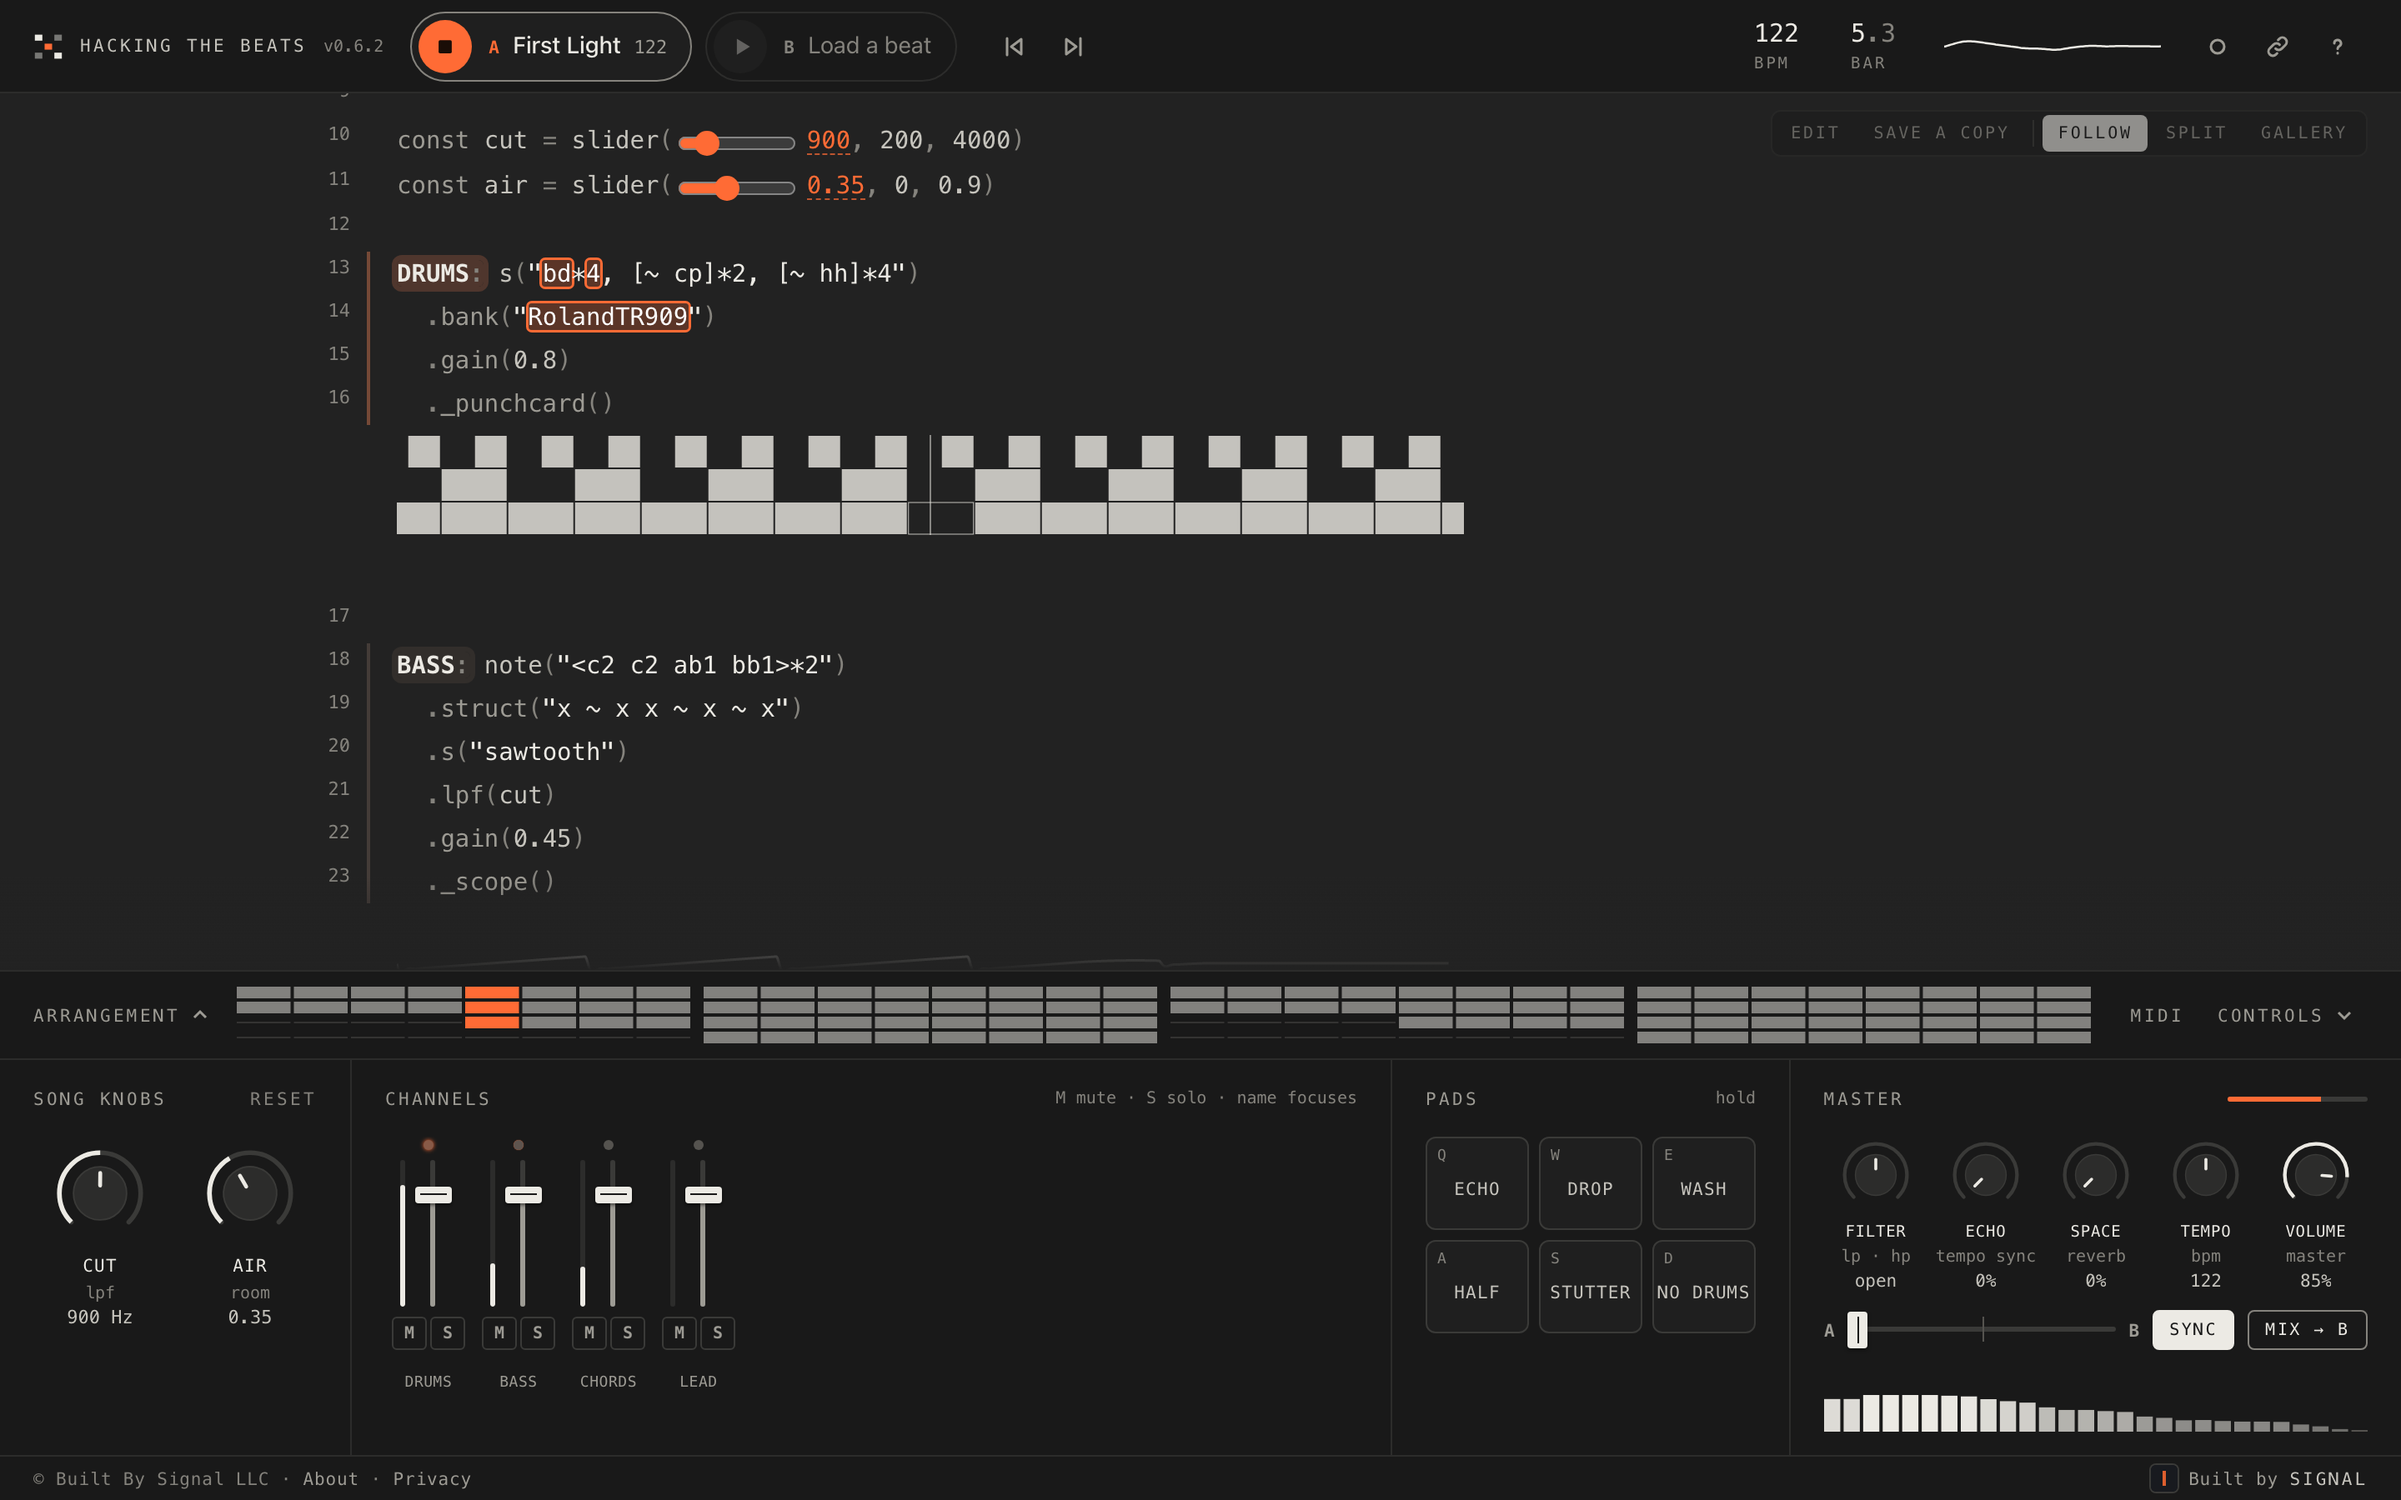
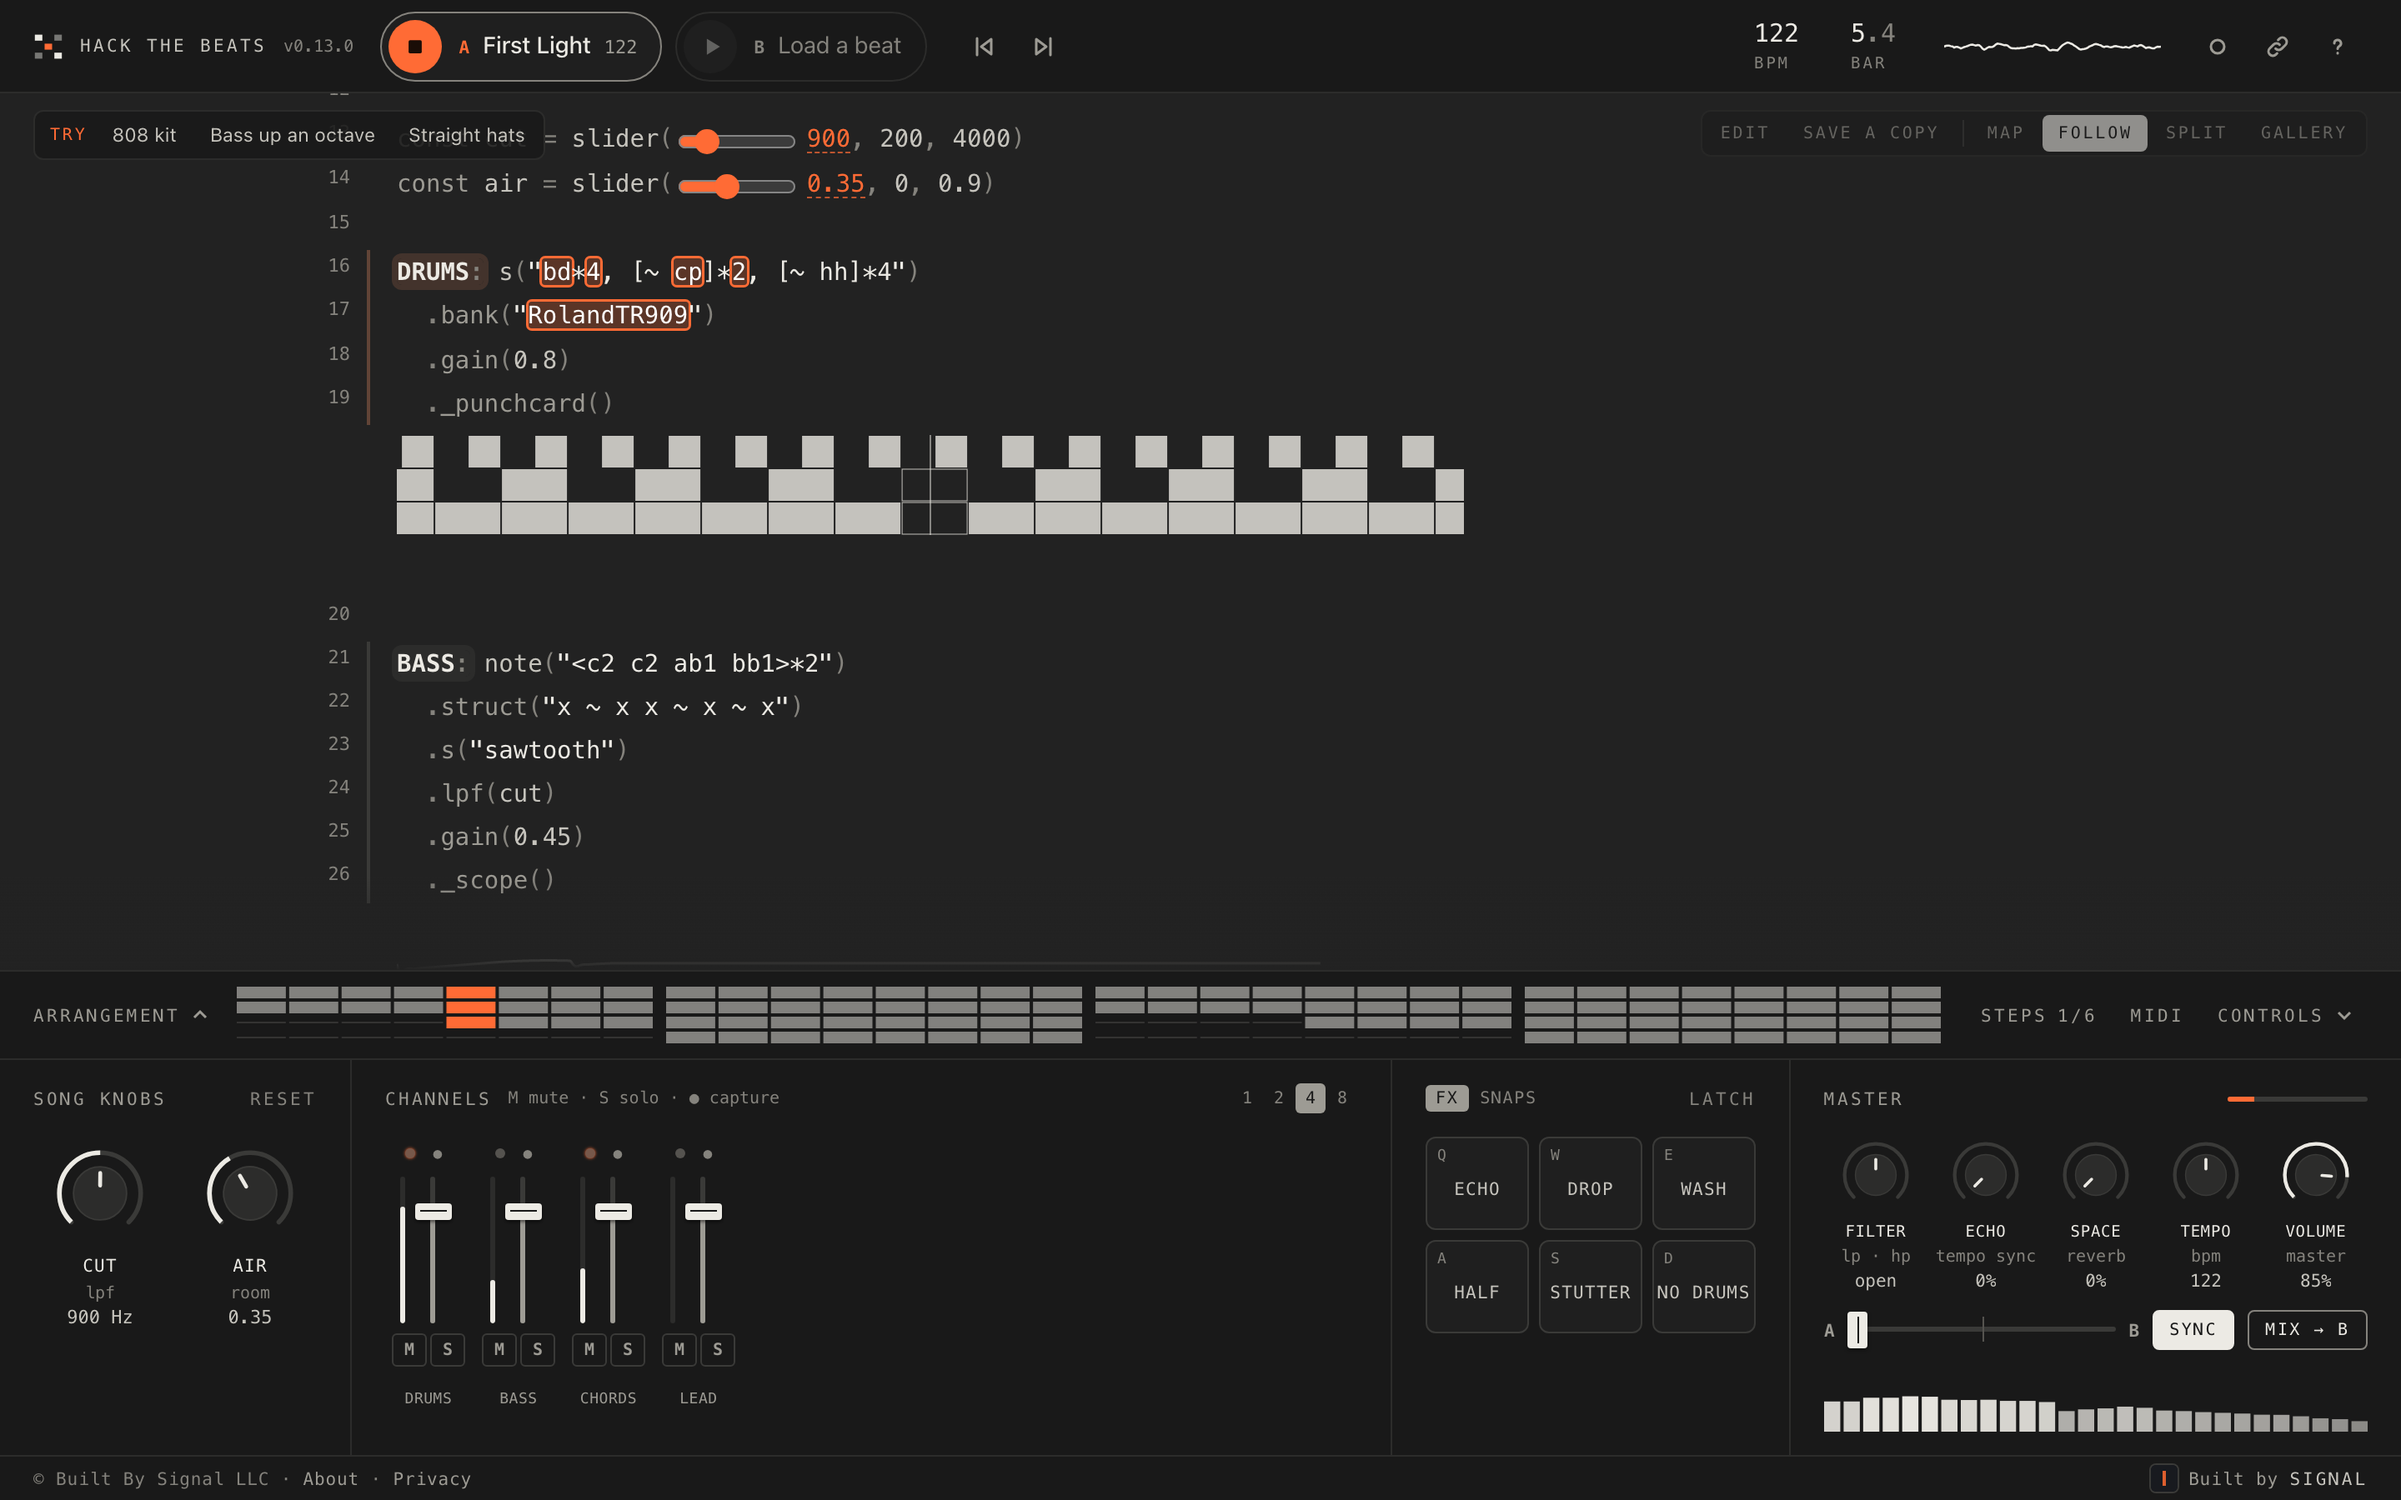
Hack The Beats 0.13.1: the name reads Hack The Beats
Every visible "Hacking the Beats" now reads "Hack The Beats": page titles, headings,
copy, the site name in link previews and share cards, the README and its screenshot
(retaken at 0.13.0), and the names of downloaded files (hack-the-beats …). The
browser storage keys keep their old names, so nobody loses their songs or settings.

diff --git a/about.html b/about.html
@@ -4,8 +4,8 @@
     <meta charset="utf-8" />
     <base href="/" />
     <meta name="viewport" content="width=device-width, initial-scale=1" />
-    <title>About Hacking the Beats — live-coded music, built on Strudel</title>
-    <meta name="description" content="What Hacking the Beats is, how to mix and edit its live-coded songs, and credits for Strudel, the songs and the sample packs." />
+    <title>About Hack The Beats — live-coded music, built on Strudel</title>
+    <meta name="description" content="What Hack The Beats is, how to mix and edit its live-coded songs, and credits for Strudel, the songs and the sample packs." />
     <meta name="color-scheme" content="dark" />
     <link
       rel="icon"
@@ -17,10 +17,10 @@
     <link rel="stylesheet" href="css/support.css" />
   </head>
   <body>
-    <a class="home" href="./">← Hacking the Beats</a>
+    <a class="home" href="./">← Hack The Beats</a>
     <h1>About</h1>
     <p class="lede">
-      Hacking the Beats is a place to watch music being made by code, and to play with it. Every song here is a short program. It
+      Hack The Beats is a place to watch music being made by code, and to play with it. Every song here is a short program. It
       runs in your browser, and what you hear is what the code on screen is doing at that moment.
     </p>
 
@@ -75,7 +75,7 @@
 
     <h2>Who runs it</h2>
     <p>
-      Hacking the Beats is owned and operated by <strong>Built By Signal LLC</strong>, a venture-building company that works
+      Hack The Beats is owned and operated by <strong>Built By Signal LLC</strong>, a venture-building company that works
       under the name SIGNAL: <a href="https://builtbysignal.com" target="_blank" rel="noopener">builtbysignal.com</a>.
     </p>
 
@@ -159,7 +159,7 @@
       import { analytics } from './js/analytics.js';
       analytics.start();
       document.getElementById('version').textContent = `v${VERSION}`;
-      document.getElementById('source-link').href = `source/hacking-the-beats-${VERSION}.tar.gz`;
+      document.getElementById('source-link').href = `source/hack-the-beats-${VERSION}.tar.gz`;
       if (config.contact) {
         for (const link of document.querySelectorAll('[data-contact]')) {
           link.href = `mailto:${config.contact}`;

diff --git a/js/main.js b/js/main.js
@@ -1080,7 +1080,7 @@ function finishRecording({ save = true } = {}) {
   if (!save) return blob;
   const title = (audible().song?.title || 'mix').replace(/[^\w\- ]+/g, '').trim() || 'mix';
   const stamp = new Date().toISOString().slice(0, 16).replace(/[T:]/g, '-');
-  const name = `hacking-the-beats ${title} ${stamp}.wav`;
+  const name = `hack-the-beats ${title} ${stamp}.wav`;
   saveBlob(blob, name);
   analytics.event('record', { action: 'save', minutes: Math.round(recorder.seconds / 60) });
   setStatus(`Saved ${name} (${(blob.size / 1048576).toFixed(1)} MB)`, { hold: 9000 });
@@ -1469,7 +1469,7 @@ async function boot() {
   });
   $('song-export').addEventListener('click', () => {
     if (!songs.list().length) return setStatus('There is nothing in My songs to export yet.');
-    saveBlob(new Blob([songs.exportText()], { type: 'application/json' }), `hacking-the-beats-songs-${new Date().toISOString().slice(0, 10)}.json`);
+    saveBlob(new Blob([songs.exportText()], { type: 'application/json' }), `hack-the-beats-songs-${new Date().toISOString().slice(0, 10)}.json`);
   });
 
   for (const player of players) {
@@ -1724,7 +1724,7 @@ async function boot() {
 
   $('version').textContent = `v${VERSION}`;
   $('about-version').textContent = `v${VERSION}`;
-  $('source-link').href = `source/hacking-the-beats-${VERSION}.tar.gz`;
+  $('source-link').href = `source/hack-the-beats-${VERSION}.tar.gz`;
 
   // arrangement ribbon: open it for track names, click a bar to jump there
   els.ribbonToggle.addEventListener('click', () => {

diff --git a/privacy.html b/privacy.html
@@ -4,8 +4,8 @@
     <meta charset="utf-8" />
     <base href="/" />
     <meta name="viewport" content="width=device-width, initial-scale=1" />
-    <title>Privacy — Hacking the Beats</title>
-    <meta name="description" content="What Hacking the Beats keeps about you: nothing without an account; your name, email address and saved songs if you sign in with Google." />
+    <title>Privacy — Hack The Beats</title>
+    <meta name="description" content="What Hack The Beats keeps about you: nothing without an account; your name, email address and saved songs if you sign in with Google." />
     <meta name="color-scheme" content="dark" />
     <link
       rel="icon"
@@ -16,13 +16,13 @@
     <link rel="stylesheet" href="css/page.css" />
   </head>
   <body>
-    <a class="home" href="./">← Hacking the Beats</a>
+    <a class="home" href="./">← Hack The Beats</a>
     <h1>Privacy</h1>
     <p class="updated">Last updated 2 October 2026</p>
 
     <h2>The short version</h2>
     <p>
-      Hacking the Beats is owned and operated by <strong>Built By Signal LLC</strong>
+      Hack The Beats is owned and operated by <strong>Built By Signal LLC</strong>
       (<a href="https://builtbysignal.com" target="_blank" rel="noopener">builtbysignal.com</a>); "we" below means that
       company. You can listen to and mix the featured beat without an account, and then we keep nothing about you. If you sign
       in with Google, we keep your name, your email address and the songs and snapshots you save, so that they are there when

diff --git a/index.html b/index.html
@@ -5,7 +5,7 @@
     <!-- every page of the site is served from this file or a copy of it, at any depth -->
     <base href="/" />
     <meta name="viewport" content="width=device-width, initial-scale=1, viewport-fit=cover" />
-    <title>Hacking the Beats — live-coded music you can watch, mix and edit</title>
+    <title>Hack The Beats — live-coded music you can watch, mix and edit</title>
     <meta name="description" content="Live-coded music as an art piece. Watch Strudel code play itself, mix beats on a two-deck DJ panel, and edit the code in your browser." />
     <!--seo-->
     <meta name="theme-color" content="#191919" />
@@ -33,7 +33,7 @@
         <span class="brand__name">Hack the Beats</span>
         <span class="brand__version" id="version"></span>
       </button>
-      <h1 class="visually-hidden">Hacking the Beats</h1>
+      <h1 class="visually-hidden">Hack The Beats</h1>
 
       <div class="decks" role="group" aria-label="Decks">
         <div class="deckchip" id="chip-a" data-deck="A" data-transport="idle">
@@ -728,7 +728,7 @@
           <a href="https://github.com/BUILTBYSIGNAL/hackthebeats_com" target="_blank" rel="noopener">GitHub</a>.
         </p>
         <p>
-          Hacking the Beats is owned and operated by Built By Signal LLC
+          Hack The Beats is owned and operated by Built By Signal LLC
           (<a href="https://builtbysignal.com" target="_blank" rel="noopener">builtbysignal.com</a>).
         </p>
         <p>

diff --git a/404.html b/404.html
@@ -4,7 +4,7 @@
     <meta charset="utf-8" />
     <base href="/" />
     <meta name="viewport" content="width=device-width, initial-scale=1" />
-    <title>Page not found — Hacking the Beats</title>
+    <title>Page not found — Hack The Beats</title>
     <meta name="robots" content="noindex" />
     <meta name="color-scheme" content="dark" />
     <link
@@ -15,7 +15,7 @@
     <link rel="stylesheet" href="css/page.css" />
   </head>
   <body>
-    <a class="home" href="./">← Hacking the Beats</a>
+    <a class="home" href="./">← Hack The Beats</a>
     <h1>Nothing here</h1>
     <p class="lede">There is no page at this address. The beat may have been renamed or taken down.</p>
     <p><a href="./">Open the player</a> · <a href="about">About and the list of beats</a></p>

diff --git a/js/clip-core.js b/js/clip-core.js
@@ -86,11 +86,11 @@ export function frameLayout(format) {
   return { width: f.width, height: f.height, safe: f.safe, header, code, scope, footer };
 }
 
-// "hacking-the-beats Low Tide clip 2026-10-02-18-40.mp4", like the WAV recordings.
+// "hack-the-beats Low Tide clip 2026-10-02-18-40.mp4", like the WAV recordings.
 export function clipFilename({ title, type, date = new Date() } = {}) {
   const name = String(title || '').replace(/[^\w\- ]+/g, '').replace(/\s+/g, ' ').trim() || 'clip';
   const stamp = date.toISOString().slice(0, 16).replace(/[T:]/g, '-');
-  return `hacking-the-beats ${name} clip ${stamp}.${fileExtension(type)}`;
+  return `hack-the-beats ${name} clip ${stamp}.${fileExtension(type)}`;
 }
 
 // "MP4 · 1080 × 1920 · 4.2 MB · 16 s"

diff --git a/js/clip.js b/js/clip.js
@@ -531,7 +531,7 @@ export const clip = {
     const name = clipFilename({ title: song?.title, type: result.type });
     // made now, not when Share is pressed: a phone only shares from inside the tap
     const file = new File([result.blob], name, { type: result.type.split(';')[0] });
-    this.result = { ...result, name, title: song?.title || 'Hacking the Beats', file, url: URL.createObjectURL(result.blob), shareable: this.canShareFile(file) };
+    this.result = { ...result, name, title: song?.title || 'Hack The Beats', file, url: URL.createObjectURL(result.blob), shareable: this.canShareFile(file) };
     this.showDone();
     if (!this.els.dialog.open) this.els.dialog.showModal();
   },

diff --git a/js/share-sheet.js b/js/share-sheet.js
@@ -194,7 +194,7 @@ export const shareSheet = {
     const url = this.view?.link?.text;
     if (!url) return;
     try {
-      await navigator.share({ title: this.input.title, text: `"${this.input.title}", a live-coded song on Hacking the Beats`, url });
+      await navigator.share({ title: this.input.title, text: `"${this.input.title}", a live-coded song on Hack The Beats`, url });
       this.hooks.shared('native', this.input.kind);
     } catch (error) {
       if (error?.name !== 'AbortError') this.announce('That did not work here: copy the link instead.');

diff --git a/js/routes-core.js b/js/routes-core.js
@@ -2,7 +2,7 @@
 // title and description. Shared by the site, the site build and the tests, so the three
 // always agree. No imports: it runs in Node as well as the browser.
 
-export const SITE_NAME = 'Hacking the Beats';
+export const SITE_NAME = 'Hack The Beats';
 export const HOME_TITLE = `${SITE_NAME} — live-coded music you can watch, mix and edit`;
 export const HOME_DESCRIPTION = 'Live-coded music as an art piece. Watch Strudel code play itself, mix beats on a two-deck DJ panel, and edit the code in your browser.';
 

diff --git a/sw.js b/sw.js
@@ -3,7 +3,7 @@
 //   this site's own files   network first, falling back to the last copy seen
 //   sample audio            cache first (those files do not change)
 //   sample pack listings    served from cache at once, refreshed in the background
-const VERSION = 'v0.13.0';
+const VERSION = 'v0.13.1';
 const SHELL = `hb-shell-${VERSION}`;
 // sample audio outlives a release: it is kept under a name that does not change
 const SOUNDS = 'hb-sounds-1';

diff --git a/js/snapshots.js b/js/snapshots.js
@@ -383,7 +383,7 @@ export const snapshots = {
     const record = records.get(id);
     if (!record?.wav) return;
     const name = `${record.name} ${barsLabel(record.bars)}`.replace(/[^\w\- ]+/g, '').trim() || 'snapshot';
-    saveBlob(record.wav, `hacking-the-beats ${name}.wav`);
+    saveBlob(record.wav, `hack-the-beats ${name}.wav`);
   },
 
   /* ---------- playing ---------- */

diff --git a/js/version.js b/js/version.js
@@ -1,2 +1,2 @@
 // Written by tools/set-version.mjs from package.json. Do not edit by hand.
-export const VERSION = '0.13.0';
+export const VERSION = '0.13.1';
